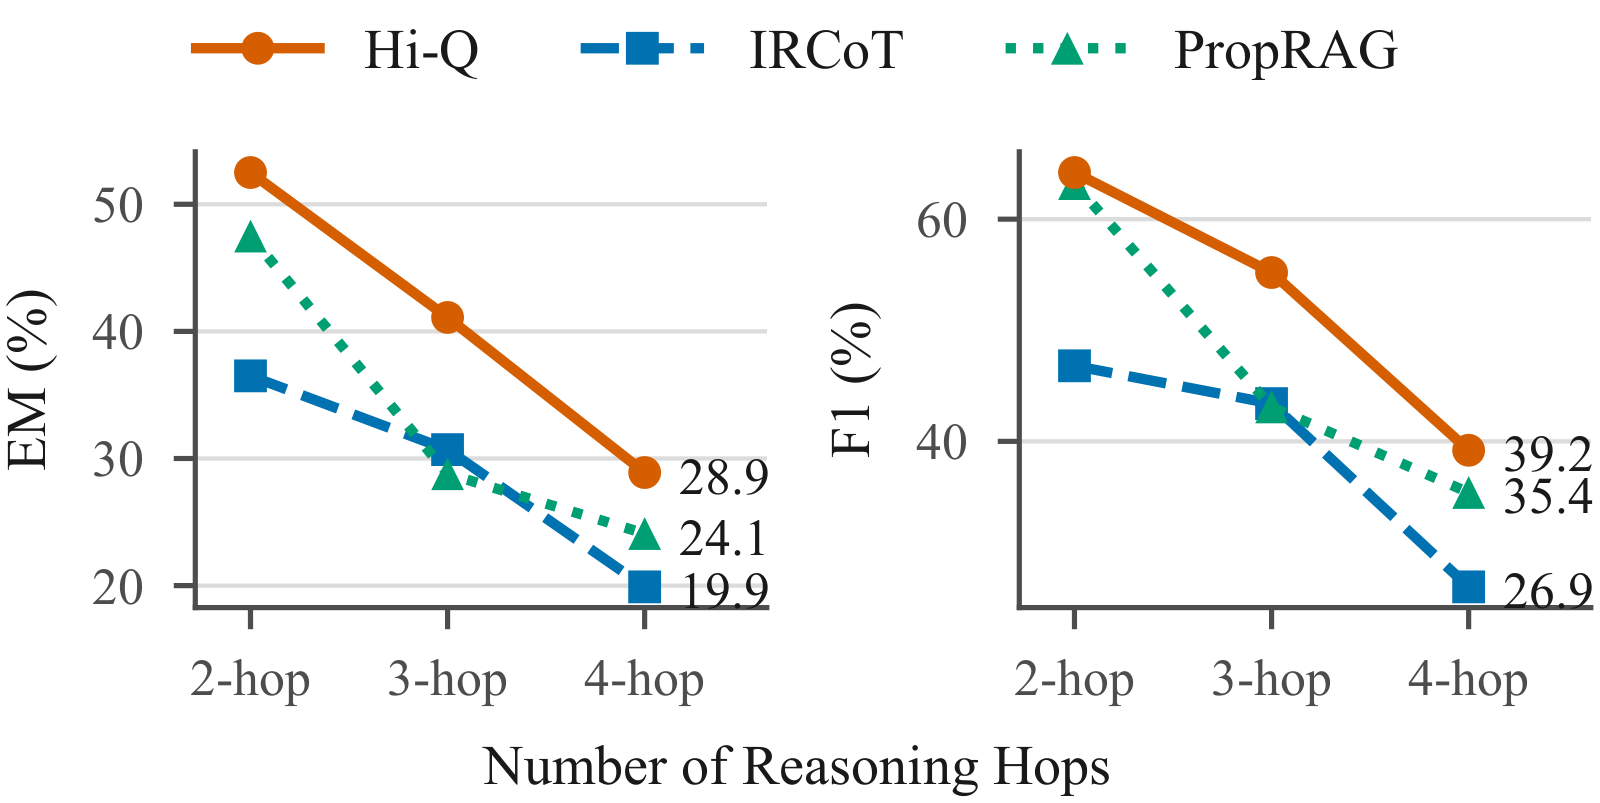
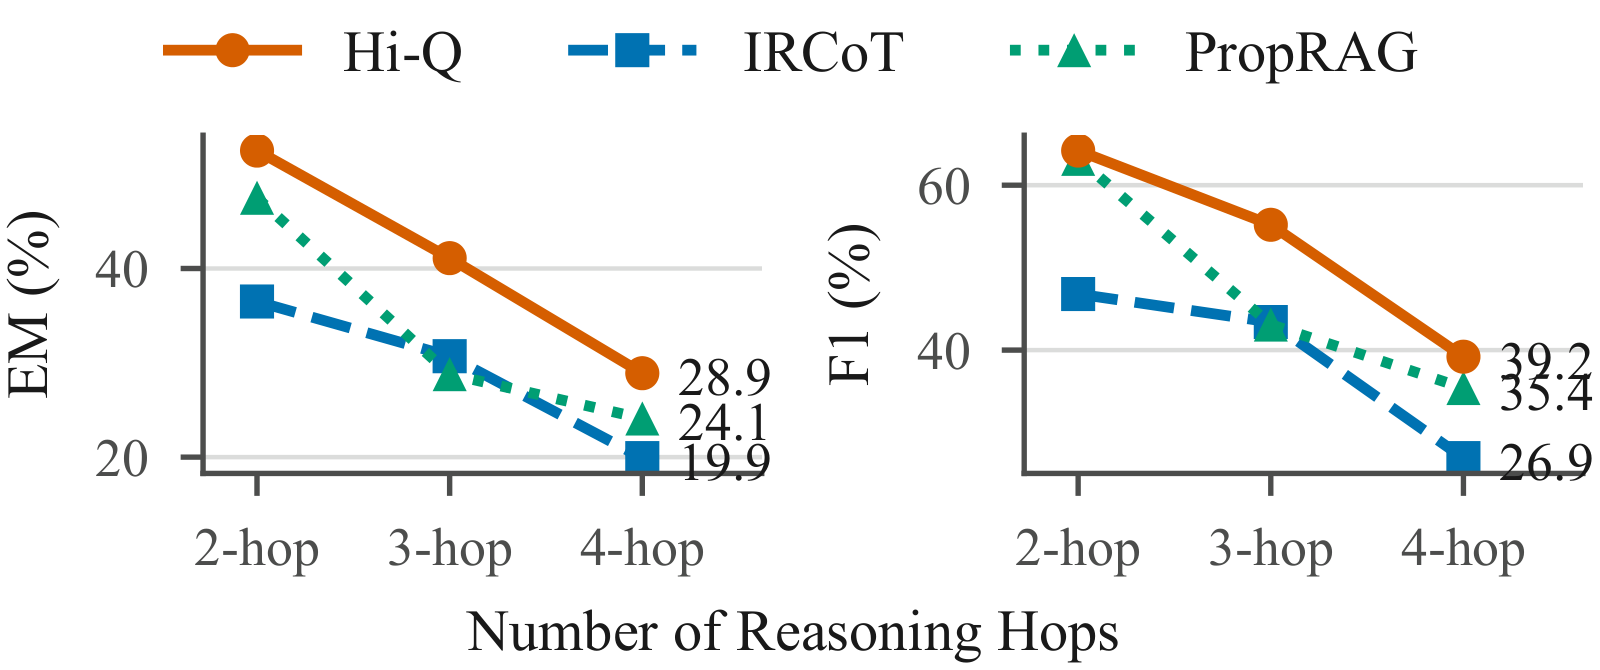
Correct the 4-hop F1 values in the hop-figure caption

diff --git a/index.html b/index.html
@@ -381,7 +381,7 @@
     </div>
     <figure class="plot">
       <img src="static/images/by_hop.png" alt="Exact Match and F1 by number of reasoning hops on MuSiQue, comparing Hi-Q with IRCoT and PropRAG">
-      <figcaption><b>Accuracy by hop count on MuSiQue.</b> Every method degrades as more dependent steps are required, but Hi-Q stays ahead at each depth &mdash; 55.2 and 39.2 F1 at 3 and 4 hops, against 43.4 / 35.4 for IRCoT and 43.1 / 26.9 for PropRAG.</figcaption>
+      <figcaption><b>Accuracy by hop count on MuSiQue.</b> Every method degrades as more dependent steps are required, but Hi-Q stays ahead at each depth &mdash; 55.2 and 39.2 F1 at 3 and 4 hops, against 43.4 / 26.9 for IRCoT and 43.1 / 35.4 for PropRAG.</figcaption>
     </figure>
   </section>
 
